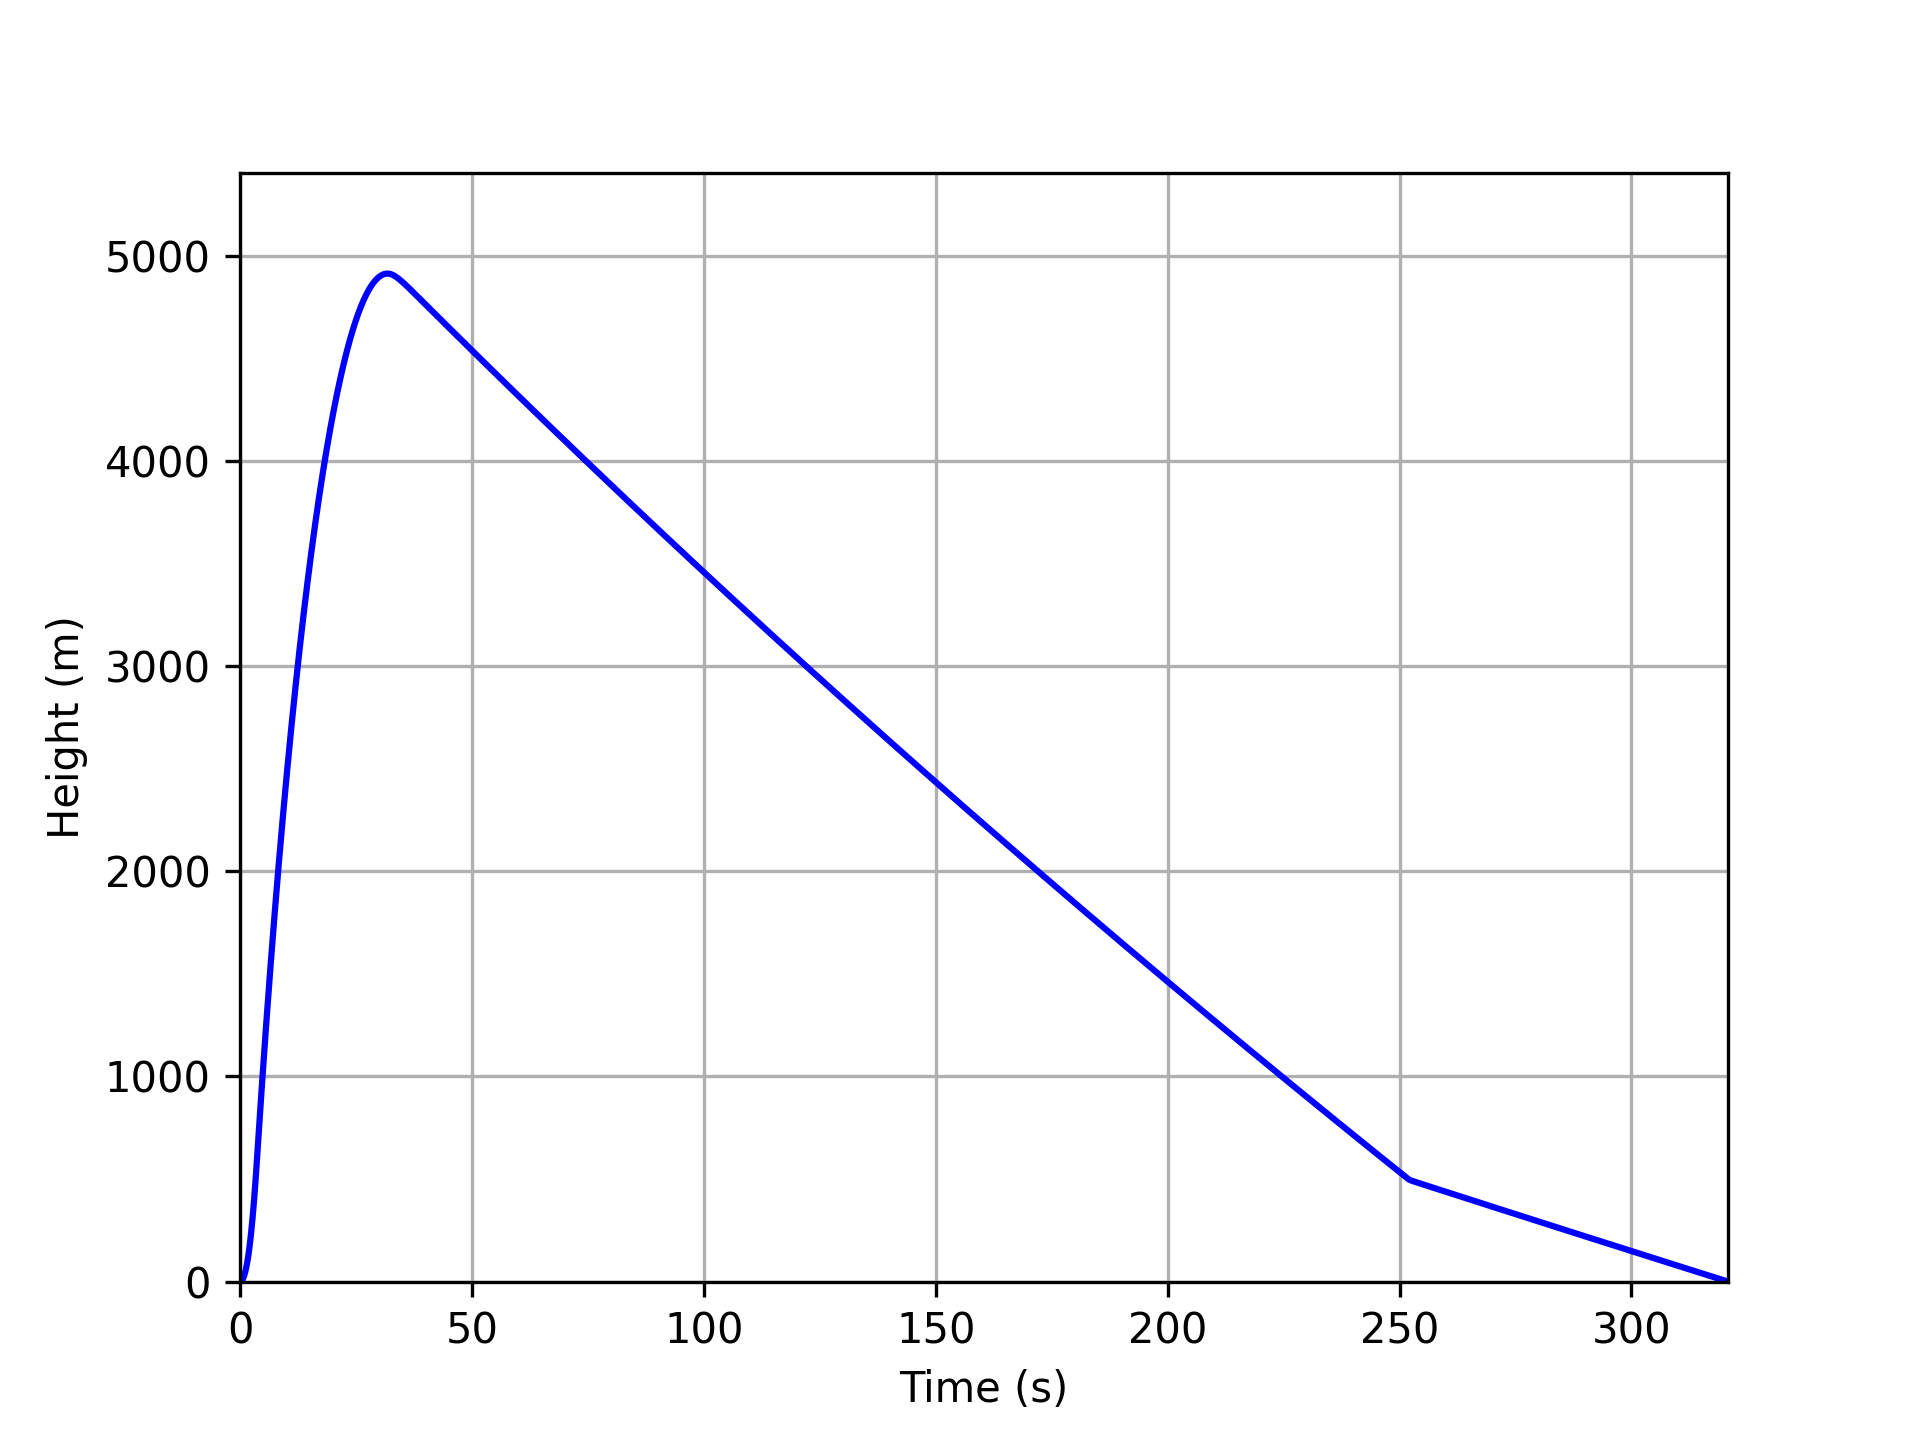
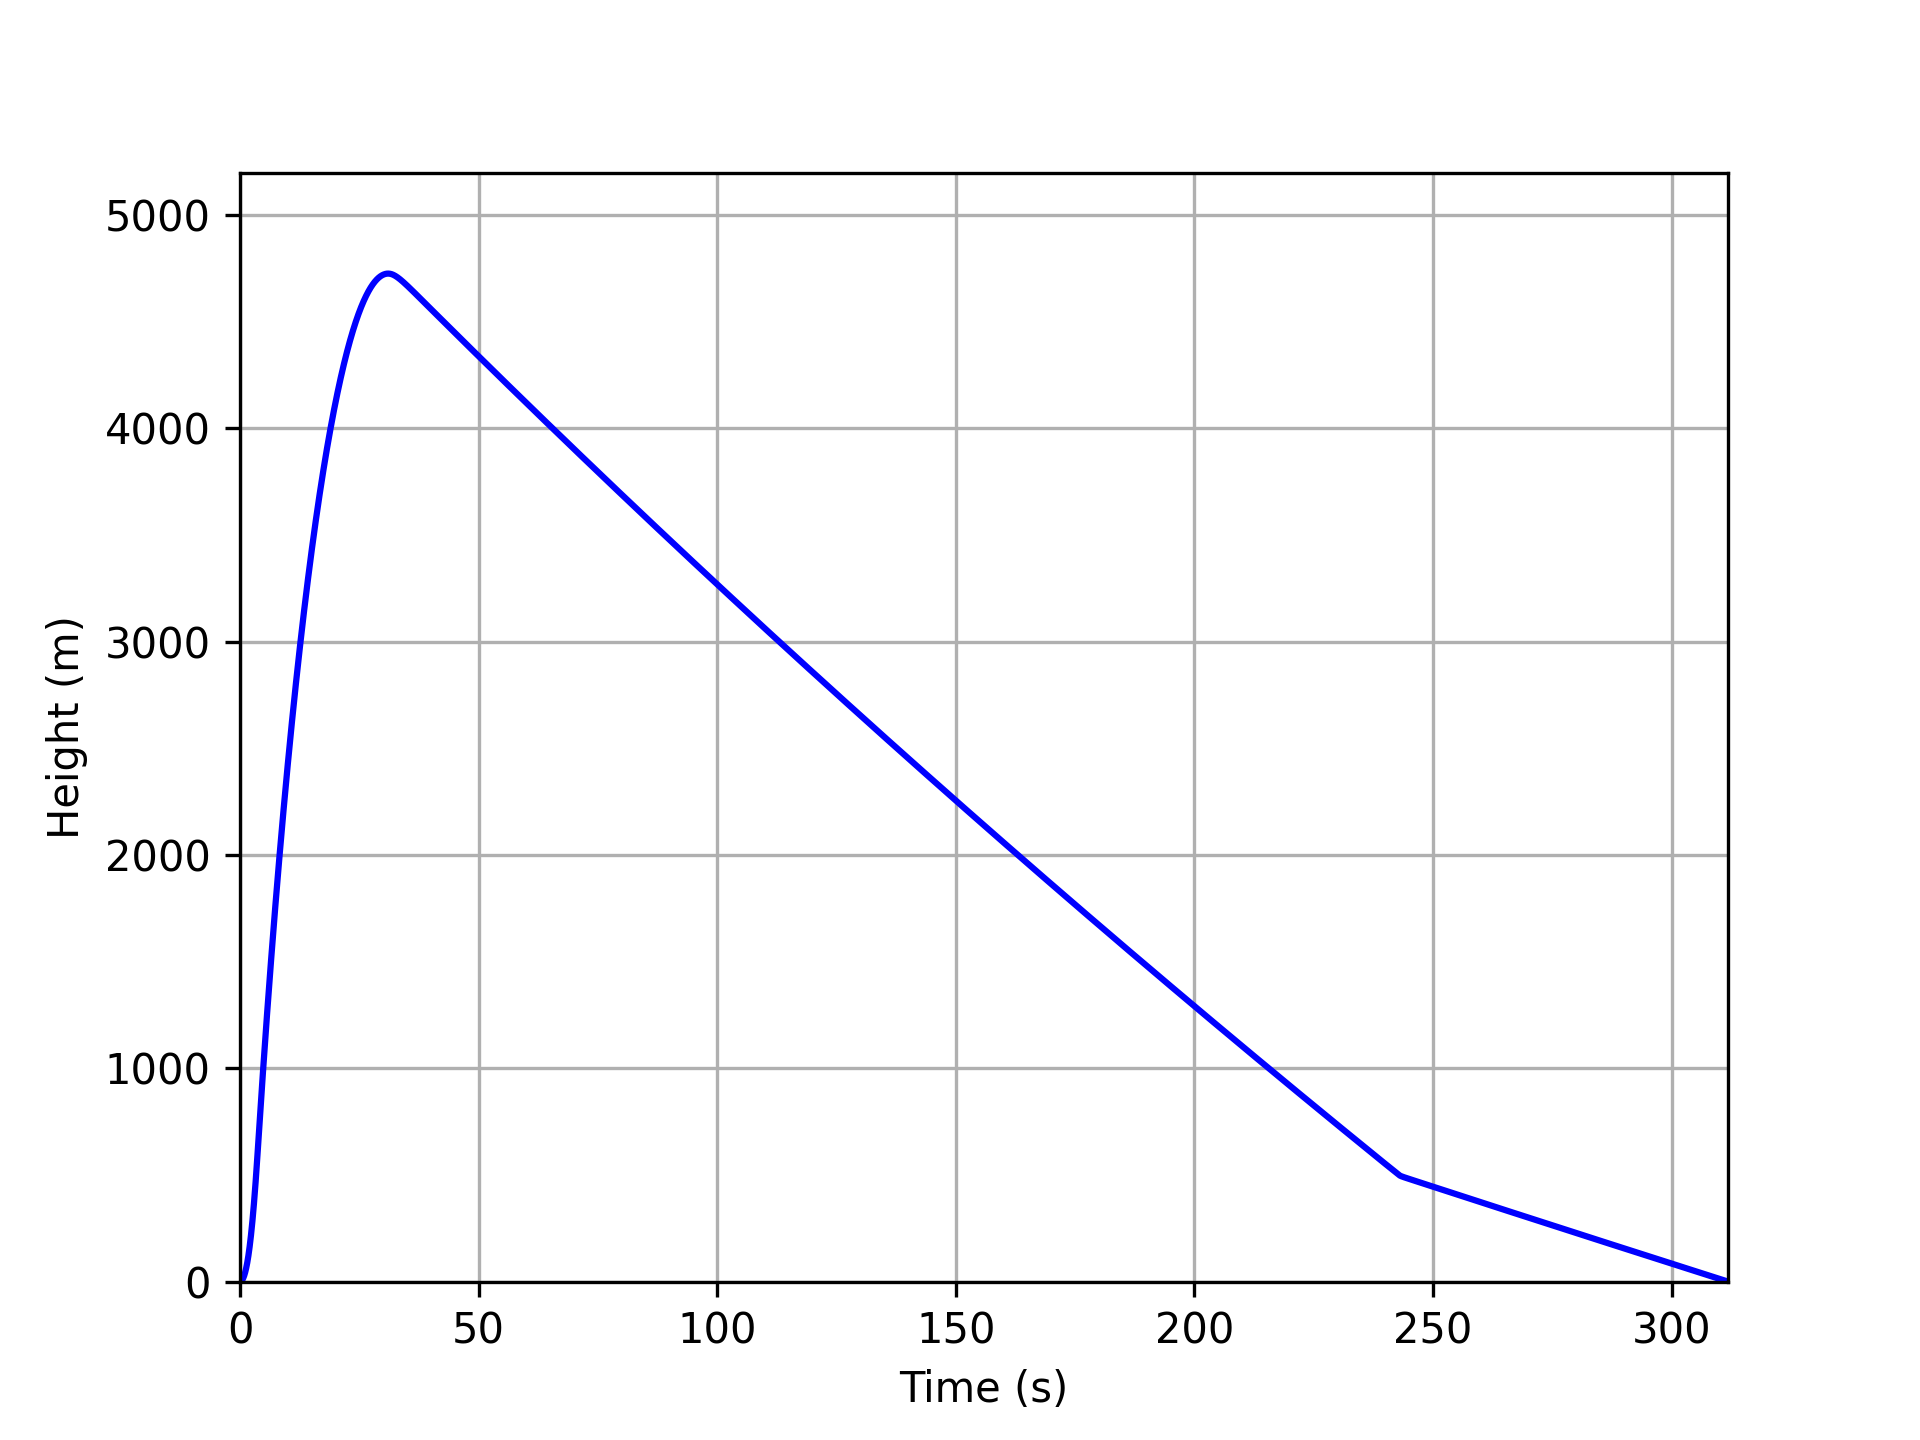
Version 1.0

diff --git a/Ballistics.py b/Ballistics.py
@@ -31,7 +31,7 @@ m_rocket, m_payload = 22, 5
 # Empty motor mass [kg]
 m_motor = 15
 # Rocket radius [m]
-r = 0.5 * 160e-3
+r = 0.5 * 170e-3
 
 # Recovery data:
 # Time after apogee for drogue parachute activation [s]
